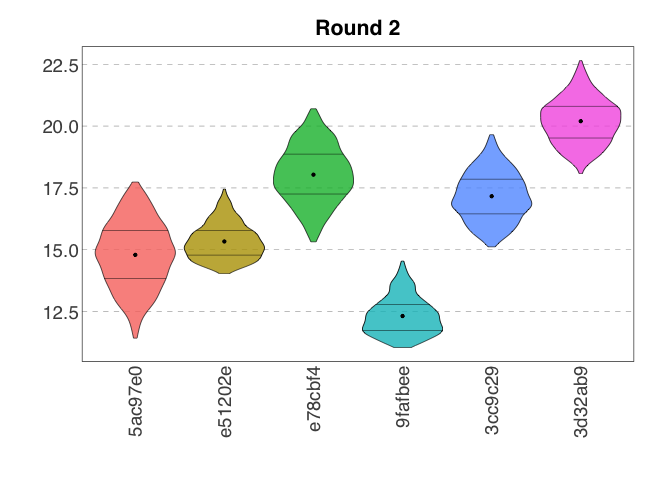
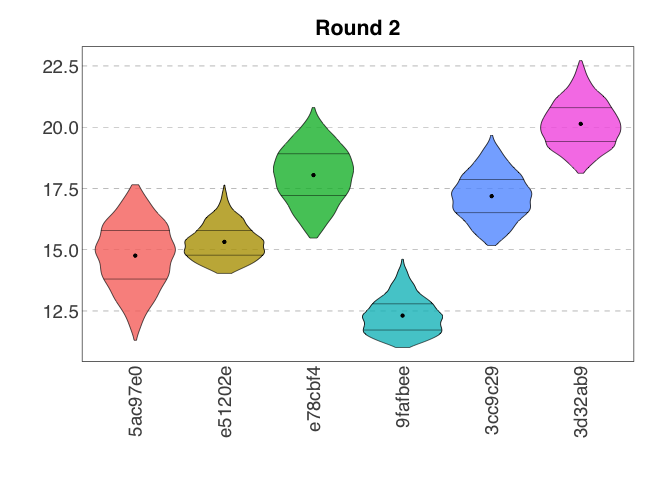
Update readme.

diff --git a/README.md b/README.md
@@ -213,8 +213,8 @@ summary(samp_cont)
 #>   Var      Min     Q1 Median   Mean     Q3    Max
 #>   <chr>  <dbl>  <dbl>  <dbl>  <dbl>  <dbl>  <dbl>
 #> 1 var1  -4     -2     -1     -1      1      1    
-#> 2 var2  11.0   14.5   16.3   16.3   18.4   22.7  
-#> 3 var3   0.454  0.672  0.717  0.715  0.760  0.879
+#> 2 var2  11.0   14.4   16.3   16.3   18.4   22.7  
+#> 3 var3   0.487  0.669  0.716  0.713  0.760  0.875
 ```
 
 And plotted as violin plots:
@@ -358,16 +358,16 @@ samp_cat_unweighted
 #> # A tibble: 2,400 × 7
 #>    id      option   category_1 category_2 category_3 category_4 category_5
 #>    <chr>   <chr>         <dbl>      <dbl>      <dbl>      <dbl>      <dbl>
-#>  1 5ac97e0 option_1      0.685      0.143    0.0335     0.00540      0.133
-#>  2 5ac97e0 option_1      0.483      0.230    0.00660    0.0174       0.263
-#>  3 5ac97e0 option_1      0.590      0.202    0.00639    0.00511      0.197
-#>  4 5ac97e0 option_1      0.506      0.235    0.0185     0.0291       0.212
-#>  5 5ac97e0 option_1      0.541      0.269    0.0206     0.0185       0.151
-#>  6 5ac97e0 option_1      0.562      0.194    0.0190     0.0334       0.192
-#>  7 5ac97e0 option_1      0.626      0.217    0.00622    0.00423      0.147
-#>  8 5ac97e0 option_1      0.595      0.153    0.0316     0.0331       0.187
-#>  9 5ac97e0 option_1      0.552      0.233    0.0253     0.0163       0.173
-#> 10 5ac97e0 option_1      0.523      0.225    0.0231     0.00417      0.225
+#>  1 5ac97e0 option_1      0.639      0.123    0.0105     0.0466       0.181
+#>  2 5ac97e0 option_1      0.588      0.197    0.0403     0.0326       0.142
+#>  3 5ac97e0 option_1      0.488      0.179    0.0354     0.0251       0.272
+#>  4 5ac97e0 option_1      0.542      0.203    0.00933    0.00597      0.240
+#>  5 5ac97e0 option_1      0.547      0.163    0.00709    0.0279       0.255
+#>  6 5ac97e0 option_1      0.566      0.175    0.0228     0.0369       0.200
+#>  7 5ac97e0 option_1      0.560      0.213    0.00577    0.00551      0.216
+#>  8 5ac97e0 option_1      0.587      0.152    0.0230     0.00935      0.229
+#>  9 5ac97e0 option_1      0.532      0.210    0.0249     0.00925      0.225
+#> 10 5ac97e0 option_1      0.538      0.164    0.0319     0.0209       0.245
 #> # ℹ 2,390 more rows
 
 samp_cat_weighted <- cat_sample_data(my_elic_cat,
@@ -378,16 +378,16 @@ samp_cat_weighted
 #> # A tibble: 1,800 × 7
 #>    id      option   category_1 category_2 category_3 category_4 category_5
 #>    <chr>   <chr>         <dbl>      <dbl>      <dbl>      <dbl>      <dbl>
-#>  1 5ac97e0 option_1     0.131       0.453      0.144    0.0267       0.245
-#>  2 5ac97e0 option_1     0.111       0.555      0.107    0.00202      0.224
-#>  3 5ac97e0 option_1     0.0597      0.533      0.148    0.0395       0.220
-#>  4 5ac97e0 option_1     0.120       0.492      0.134    0.0178       0.236
-#>  5 5ac97e0 option_1     0.0624      0.539      0.184    0.0184       0.196
-#>  6 5ac97e0 option_1     0.120       0.523      0.137    0.0401       0.180
-#>  7 5ac97e0 option_1     0.0988      0.524      0.146    0.0155       0.215
-#>  8 5ac97e0 option_1     0.120       0.441      0.200    0.0414       0.198
-#>  9 5ac97e0 option_1     0.0858      0.550      0.159    0.0113       0.194
-#> 10 5ac97e0 option_1     0.172       0.412      0.148    0.0200       0.247
+#>  1 5ac97e0 option_1     0.0836      0.489      0.181    0.0283       0.217
+#>  2 5ac97e0 option_1     0.124       0.468      0.186    0.0105       0.211
+#>  3 5ac97e0 option_1     0.0548      0.463      0.252    0.0112       0.219
+#>  4 5ac97e0 option_1     0.117       0.557      0.131    0.0268       0.169
+#>  5 5ac97e0 option_1     0.126       0.493      0.179    0.00635      0.196
+#>  6 5ac97e0 option_1     0.101       0.610      0.167    0.0144       0.108
+#>  7 5ac97e0 option_1     0.212       0.467      0.146    0.0117       0.164
+#>  8 5ac97e0 option_1     0.118       0.515      0.184    0.0104       0.172
+#>  9 5ac97e0 option_1     0.132       0.535      0.125    0.00304      0.206
+#> 10 5ac97e0 option_1     0.147       0.485      0.159    0.0103       0.198
 #> # ℹ 1,790 more rows
 ```
 
@@ -399,11 +399,11 @@ summary(samp_cat_unweighted, option = "option_2")
 #> # A tibble: 5 × 7
 #>   category       Min      Q1 Median   Mean     Q3   Max
 #>   <chr>        <dbl>   <dbl>  <dbl>  <dbl>  <dbl> <dbl>
-#> 1 category_1 0.00220 0.0280  0.0533 0.0660 0.0916 0.251
-#> 2 category_2 0.00608 0.0662  0.151  0.183  0.250  0.565
-#> 3 category_3 0.0114  0.0932  0.133  0.196  0.284  0.562
-#> 4 category_4 0       0.00609 0.0933 0.196  0.421  0.659
-#> 5 category_5 0.0370  0.255   0.330  0.359  0.434  0.796
+#> 1 category_1 0.00180 0.0328  0.0554 0.0658 0.0893 0.212
+#> 2 category_2 0.0121  0.0611  0.142  0.181  0.240  0.554
+#> 3 category_3 0.0149  0.0874  0.126  0.193  0.282  0.601
+#> 4 category_4 0       0.00642 0.0975 0.197  0.422  0.663
+#> 5 category_5 0.0302  0.259   0.329  0.364  0.443  0.808
 ```
 
 And plotted as violin plots:
